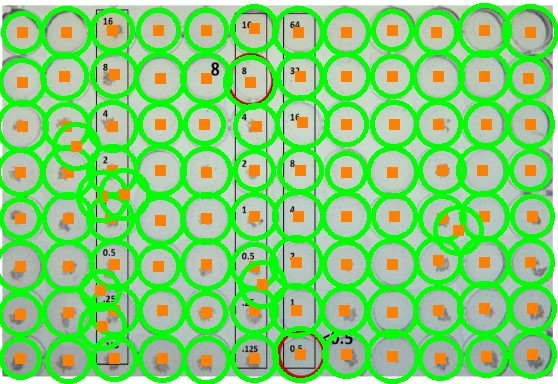
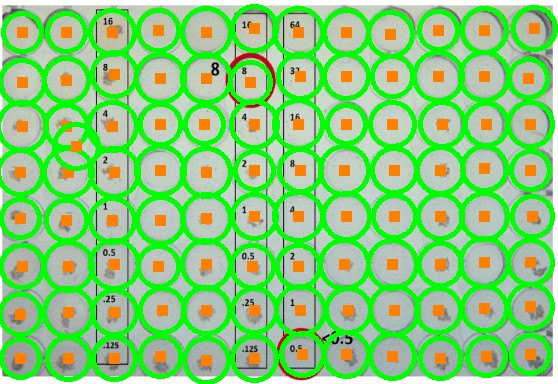
added params and sintetic images

diff --git a/antibiotic_resistance.py b/antibiotic_resistance.py
@@ -165,6 +165,33 @@ def getSegmentedWells(image, rows, columns, radius):
 		labelX += 1
 	
 	return croppedwells
+
+def getWells(image,wells,radius):
+        LABELROWS=["1","2","3","4","5","6","7","8"]
+        LABELCOLUMNS=["A","B","C","D","E","F","G","H","I","J","K","l"]
+
+        croppedwells=[]
+
+	#index = np.lexsort((wells[:,4],wells[:,3]))
+	#wells = wells[index]
+	for well in wells:
+		y = int(well[0])
+		x = int(well[1])
+		labelY = int(well[3])
+		labelX = int(well[4])
+
+		cropped = image[x-radius:x+radius,y-radius:y+radius]
+		croppedgray = cv2.cvtColor(cropped, cv2.COLOR_BGR2GRAY)
+		
+		# Otsu's thresholding after Gaussian filtering
+		blur = cv2.GaussianBlur(croppedgray,(5,5),0)		
+		threshold,img = cv2.threshold(blur,0,255,cv2.THRESH_BINARY+cv2.THRESH_OTSU)
+
+		#here we have img segmented, we can crop the circle
+		img,resistance,total = segmentedWell(img,radius)
+
+		croppedwells.append({"image":img,"row":LABELROWS[labelX],"column":LABELCOLUMNS[labelY],"resistance":resistance,"total":total})
+	return croppedwells
 	
 def quality(wells):
 	'''
@@ -172,7 +199,7 @@ def quality(wells):
 	@param wells: numpyarray as matrix structure to manage wells
 	@return: true or false
 	'''
-	return False
+	return len(wells) == 96
 	
 def paint(wells,output,output_name):
 	'''
@@ -194,7 +221,7 @@ def paint(wells,output,output_name):
 			cv2.rectangle(output, (x - 5, y - 5), (x + 5, y + 5), (0, 128, 255), -1)
 	 
 		# write to file
-		filename = "images\{0}.jpg".format(output_name)
+		filename = "images/{0}.jpg".format(output_name)
 		cv2.imwrite(filename, output, [int(cv2.IMWRITE_JPEG_QUALITY), 90])
 
 def paintcoord(well_x, well_y, radius, output, output_name):
@@ -218,7 +245,7 @@ def paintcoord(well_x, well_y, radius, output, output_name):
 			cv2.rectangle(output, (x - 5, y - 5), (x + 5, y + 5), (0, 128, 255), -1)
 
 	# write to file
-	filename = "images\{0}.jpg".format(output_name)
+	filename = "images/{0}.jpg".format(output_name)
 	cv2.imwrite(filename, output, [int(cv2.IMWRITE_JPEG_QUALITY), 90])
 	
 def write(wells):
@@ -233,7 +260,7 @@ def write(wells):
 		resistance = object["resistance"]
 		total = object["total"]
 		density = round(float(resistance)/float(total),2)
-		filename = "outputs/{0}-{1}_{2}-{3}.jpg".format(row,column,resistance,density)
+		filename = "output/{0}-{1}_{2}-{3}.jpg".format(row,column,resistance,density)
 		cv2.imwrite(filename, cropped, [int(cv2.IMWRITE_JPEG_QUALITY), 90])
 	
 if __name__ == '__main__':
@@ -242,15 +269,24 @@ if __name__ == '__main__':
 	ap.add_argument("-i", "--image", required = True, help = "Path to the image")
 	ap.add_argument("--minRadius", required = False, help = "Min radius for hough circles method")
 	ap.add_argument("--maxRadius", required = False, help = "Max radius for hough circles method")
+	ap.add_argument("--normError", required = False, help = "Error value to normalize the radius of a circle to be evaluated")
+	ap.add_argument("--threshold", required = False, help = "Threshold to construct groups of rows and colums")
+
 	args = vars(ap.parse_args())
 
 	input_path = args["image"]
 	minRadius = 18
 	maxRadius = 27
+	normalizingerror = 3
+	labelthreshold = 3
 	if args["minRadius"] is not None:
 		minRadius = int(args["minRadius"])
 	if args["maxRadius"] is not None:
 		maxRadius = int(args["maxRadius"])
+	if args["normError"] is not None:
+		normalizingerror = int(args["normError"])
+	if args["threshold"] is not None:
+		labelthreshold = int(args["threshold"])
 
 	##load the image, clone it for output
 	image = cv2.imread(input_path)
@@ -278,7 +314,7 @@ if __name__ == '__main__':
 	##initializing variables
 	NUM_LABELS_IN_ROWS = 4
 	NUM_LABELS_IN_COLUMNS = 3
-	LABELTHRESHOLD_INDEX = 3
+	LABELTHRESHOLD_INDEX = labelthreshold
 	ROW_INDEX = 0
 	COLUMN_INDEX = 1
 
@@ -290,6 +326,9 @@ if __name__ == '__main__':
 	##writting wells with original
 	paint(wells,outputs["output1"],"output1")
 
+	##measuring the rotation of the image
+	##wells = rotation(wells)
+
 	##column 0,1 speficy the COORDINATES and COLUMN 2,3 identify ROW and COLUMN label
 	##sorting and labeling objects by rows
 	wells = sorting(wells, ROW_INDEX) 
@@ -299,6 +338,9 @@ if __name__ == '__main__':
 	wells = sorting(wells, COLUMN_INDEX)
 	wells = labeling(wells, COLUMN_INDEX, LABELTHRESHOLD_INDEX) 
 	 
+	error = quality(wells)
+	print error,len(wells)
+
 	##remove associates elements with labels less than total number of ROWS or COLUMNS
 	wells = removing(wells, ROW_INDEX+3, NUM_LABELS_IN_ROWS) 
 	wells = removing(wells, COLUMN_INDEX+3, NUM_LABELS_IN_COLUMNS) 
@@ -312,18 +354,22 @@ if __name__ == '__main__':
 
 	##here we can check if we have 96 samples then we analyse the image otherwise we analyse but warning with message
 	error = quality(wells)
-	
+	print error, len(wells)
+
+	#print error , type(wells), wells
 	##normalizing coordinates, 8 rows and 12 columns
 	x = np.matrix(np.arange(8*12).reshape((8, 12)))
 	y = np.matrix(np.arange(8*12).reshape((12, 8)))
 	columns,rows = normalizingCoordinates(wells)
-	radiuseavg = int(np.mean(wells, axis=0)[2])-3	
+	radiusavg = int(np.mean(wells, axis=0)[2])-normalizingerror	
+	
 
 	##writting normalized wells with original
-	paintcoord(x,y,radiuseavg,outputs["output3"],"output3")
+	#paintcoord(x,y,radiusavg,outputs["output3"],"output3")
 
 	##given a matrix of samples and an average radius, aply a otsu segmentation and get only the wells, not bounding box
-	wells = getSegmentedWells(image, rows, columns, radiuseavg)
-
+	#wells = getSegmentedWells(image, rows, columns, radiusavg)
+	wells = getWells(image,wells,radiusavg)
+	
 	##write the results in a separated file
 	write(wells)	
